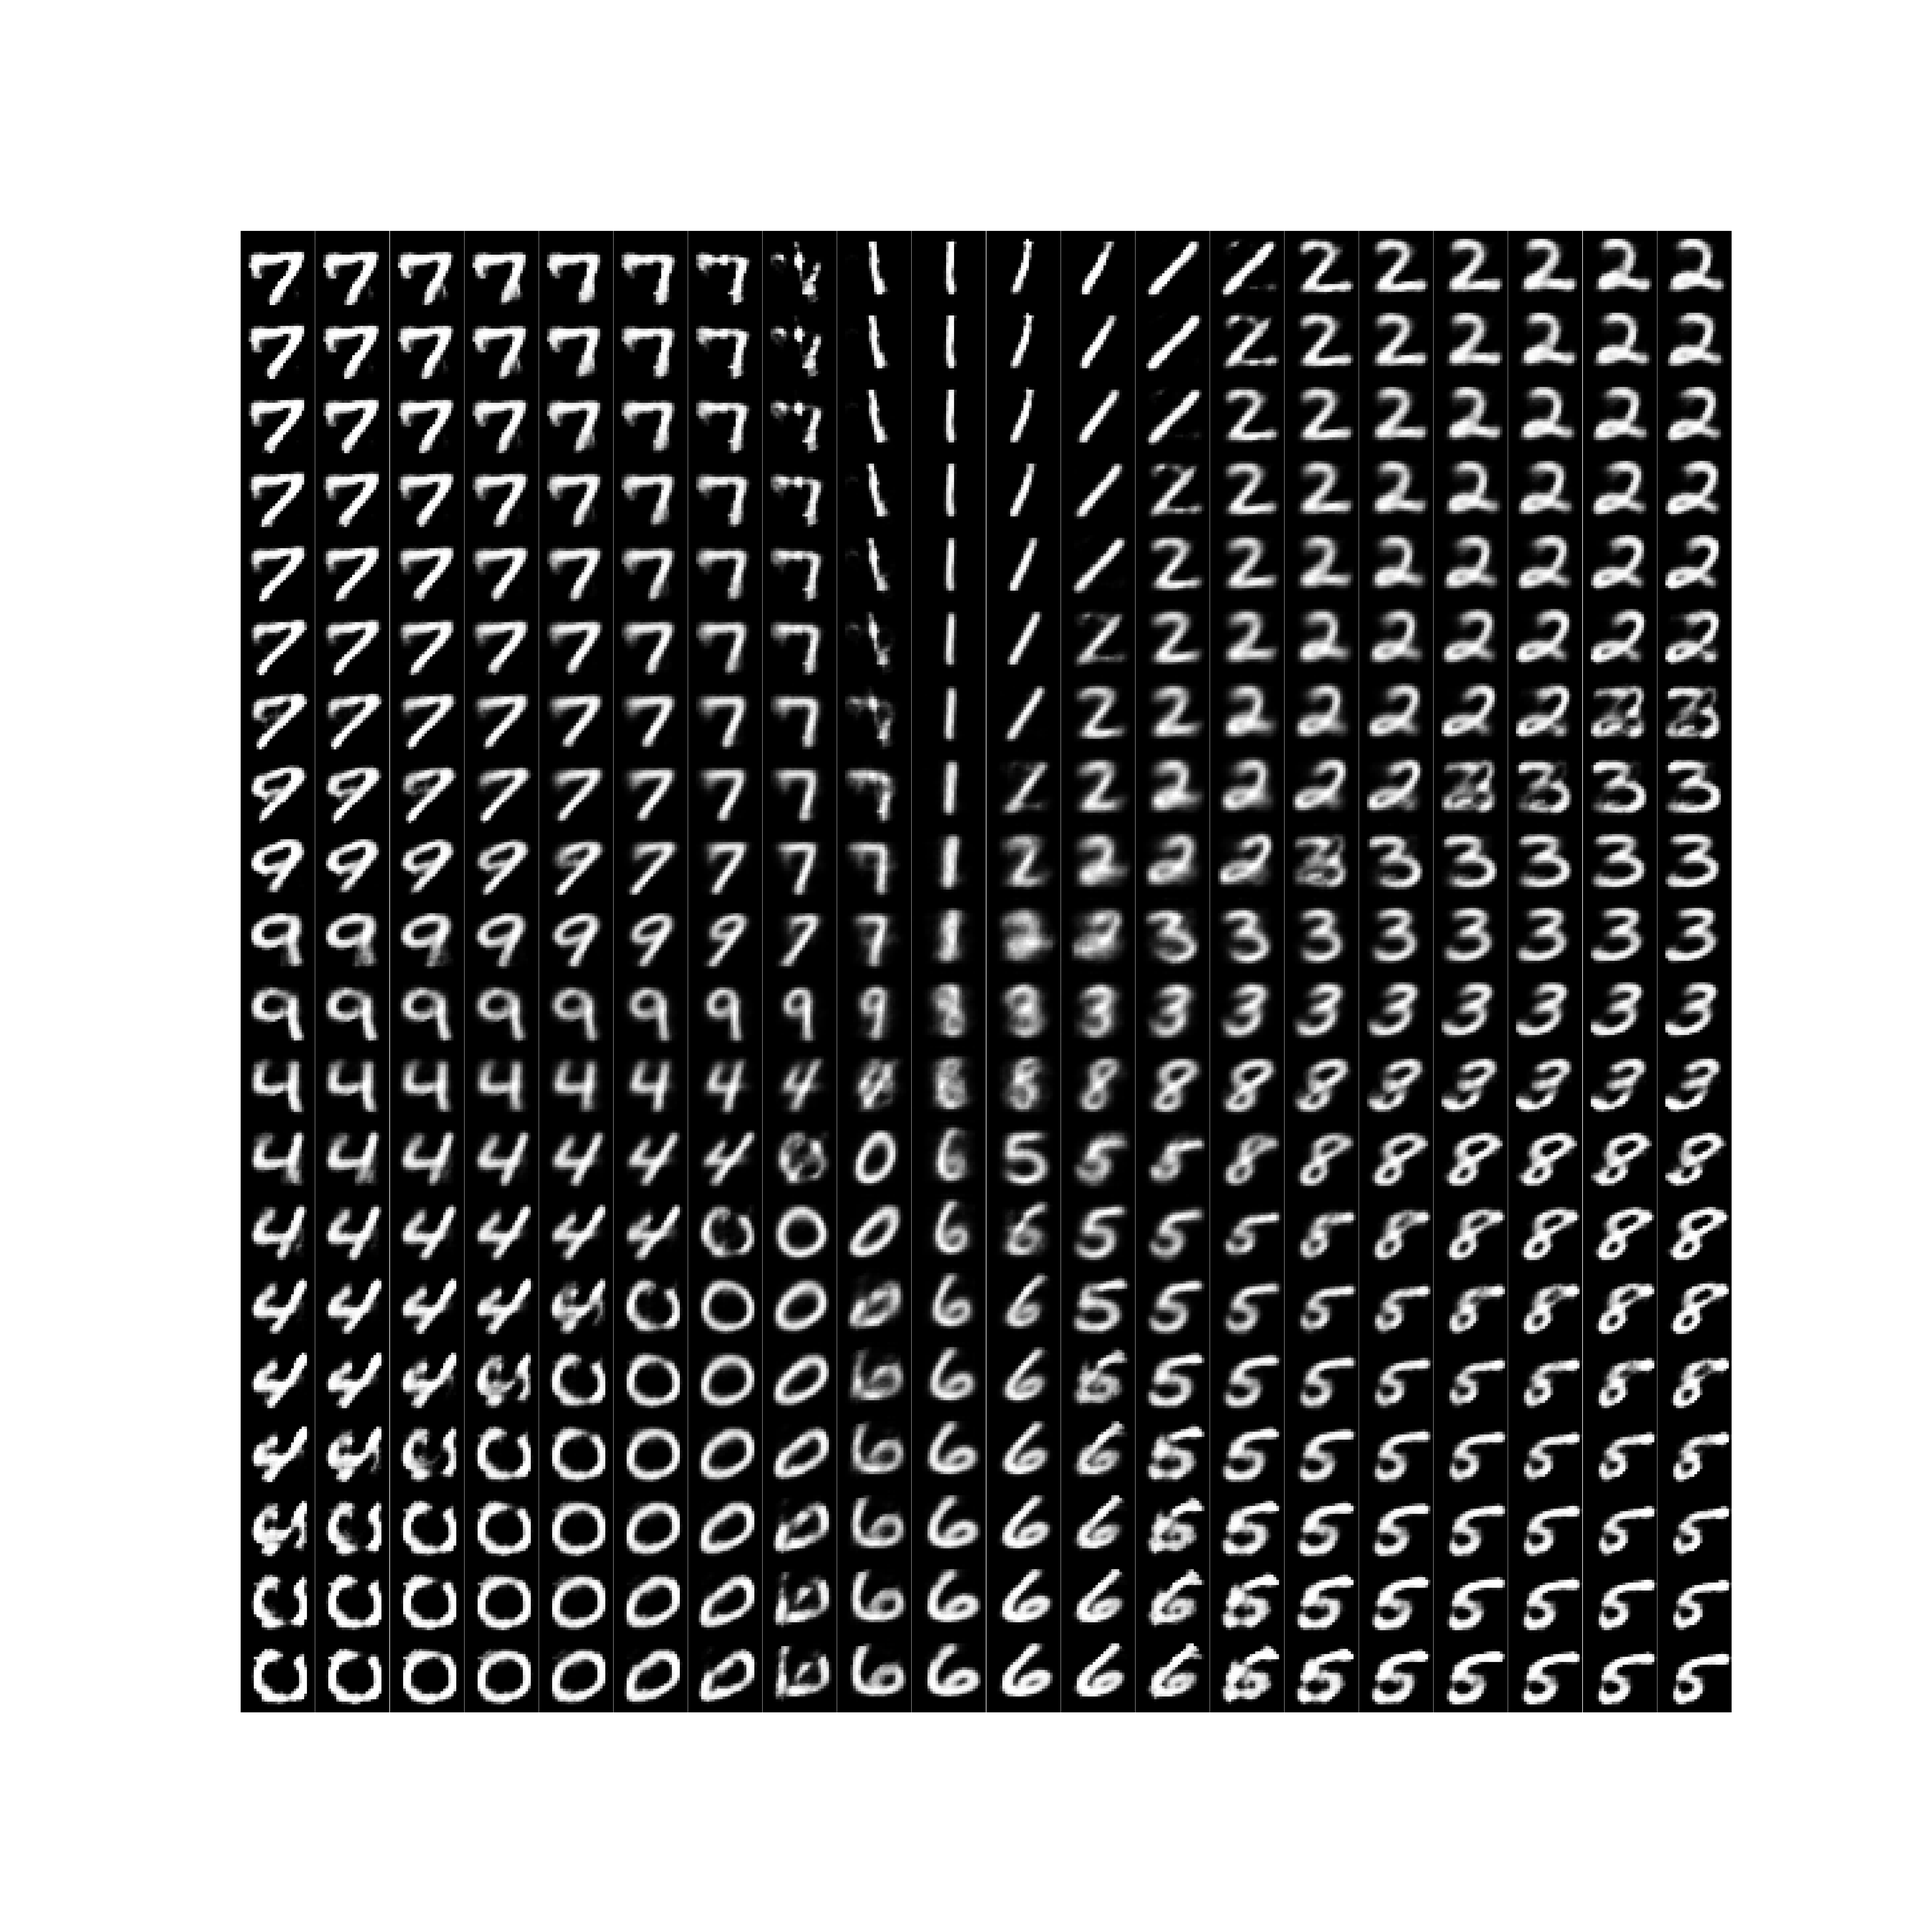
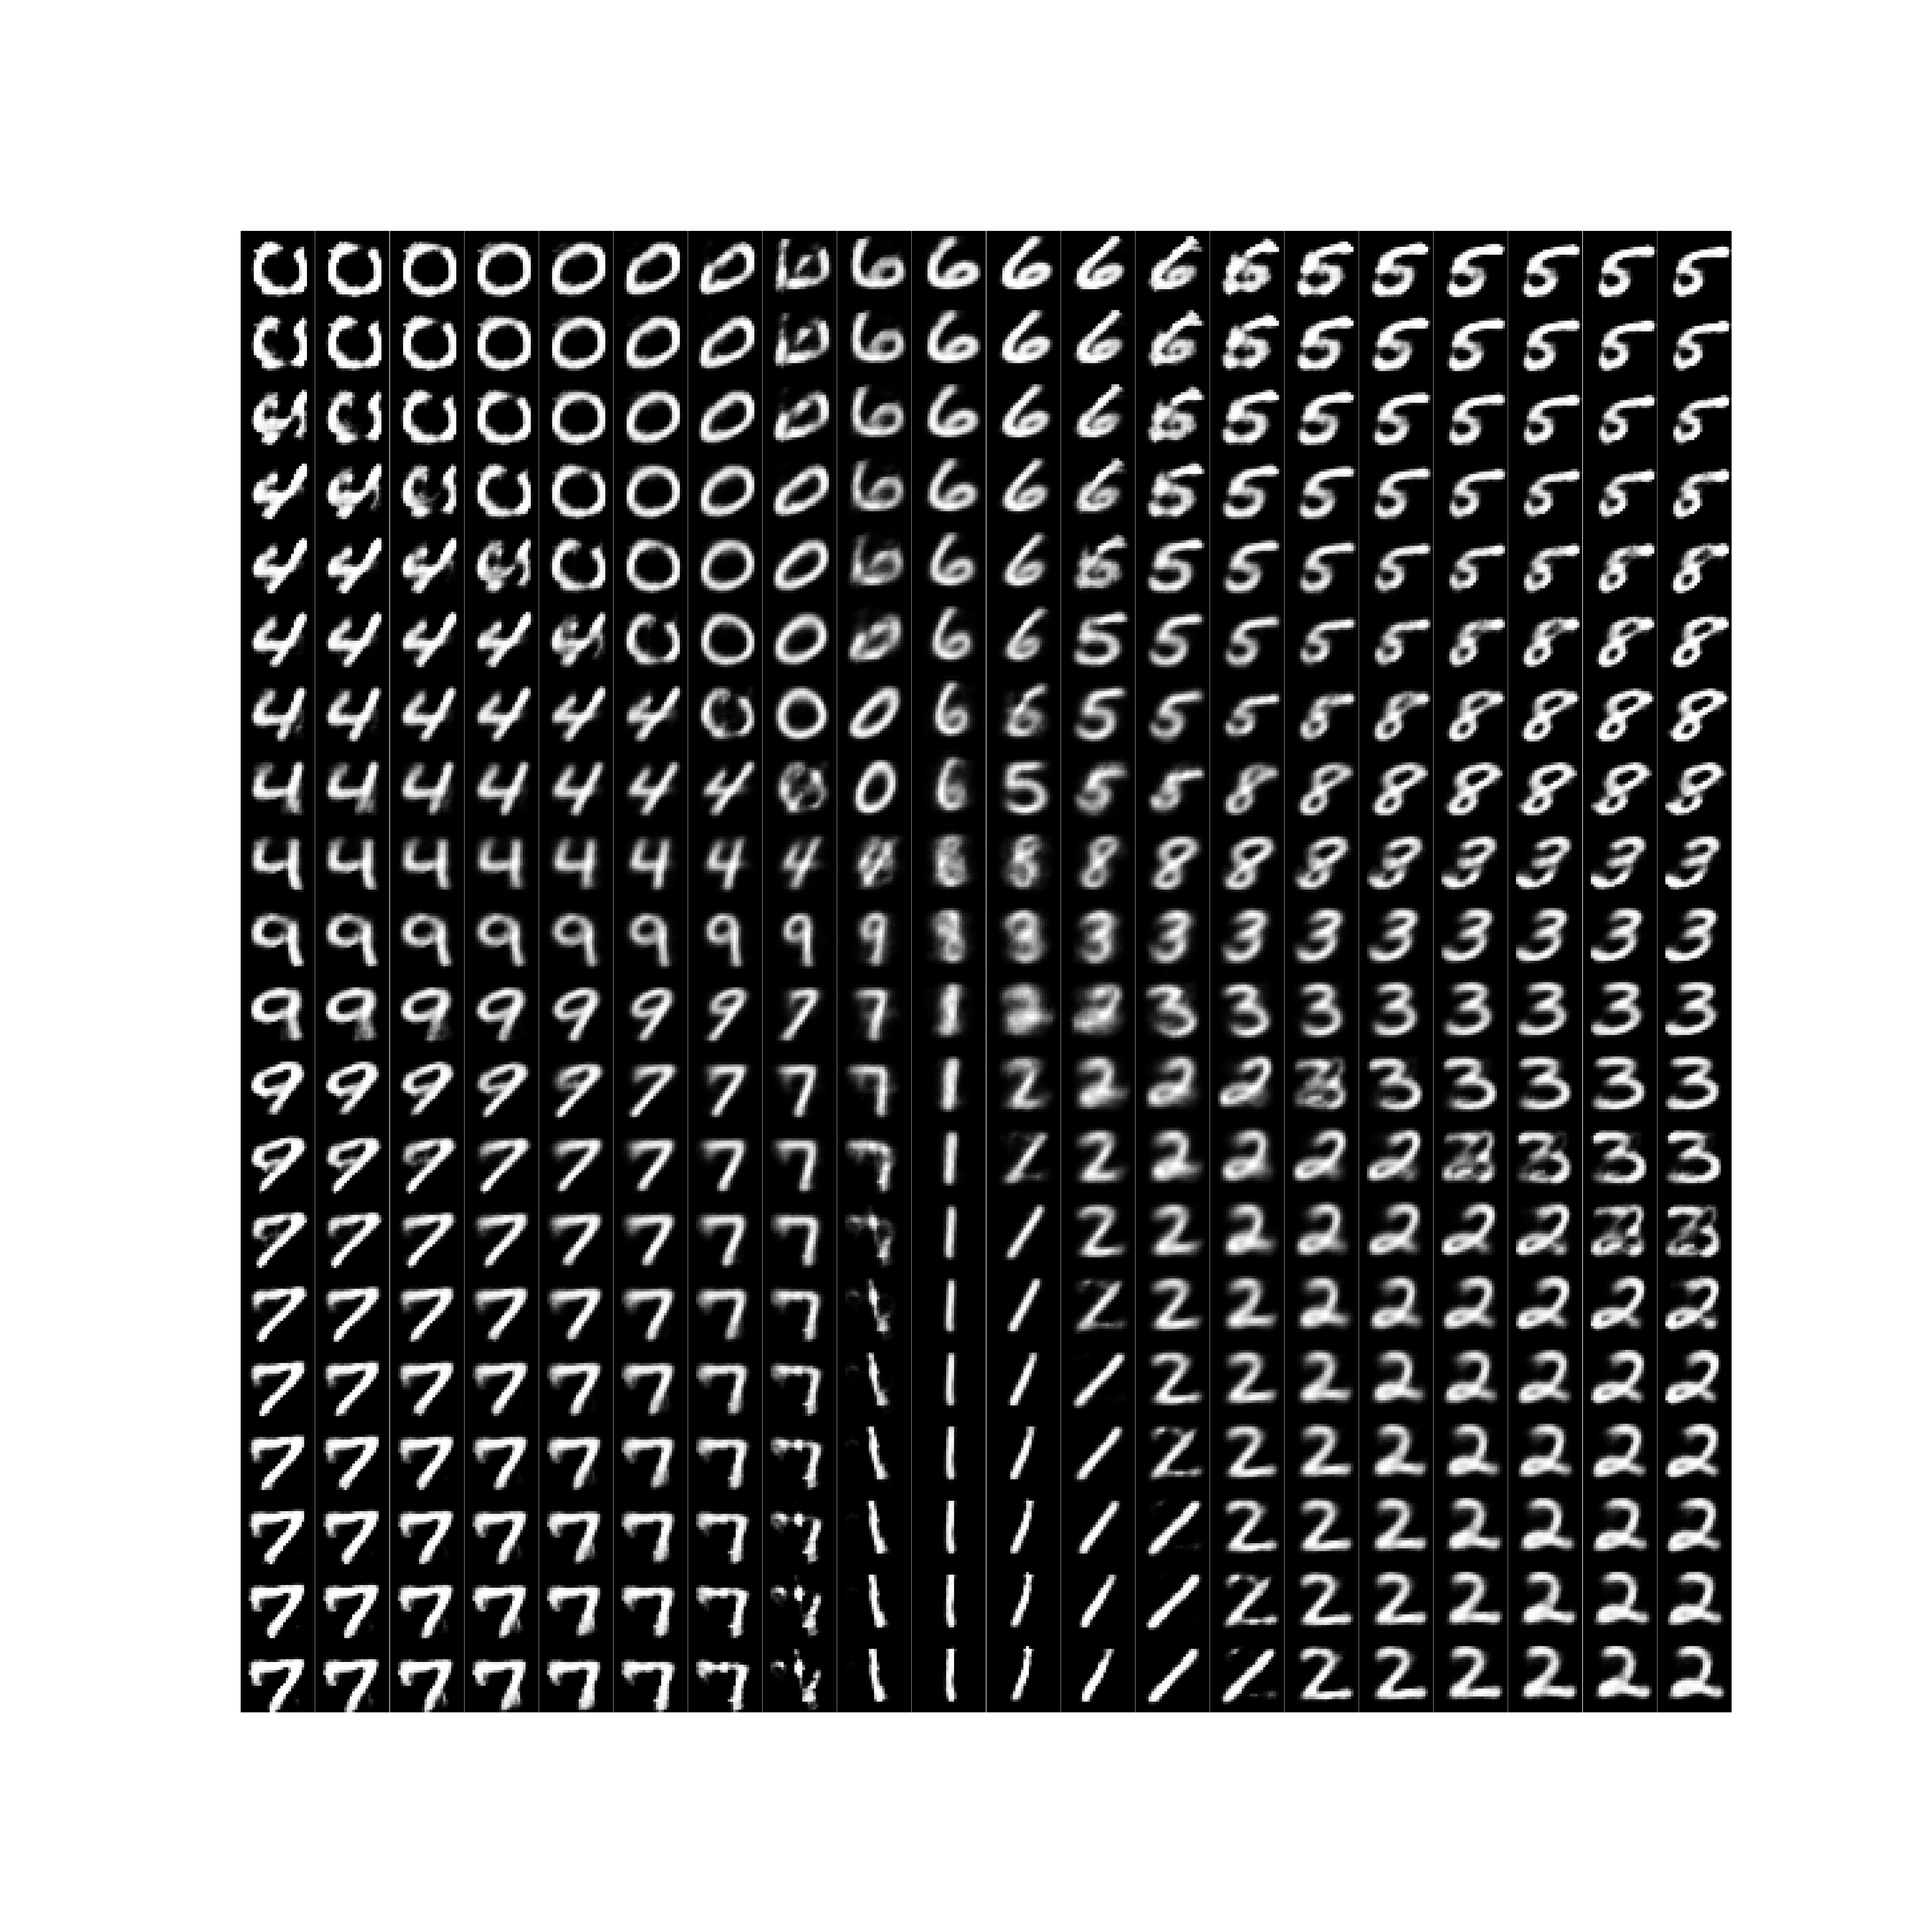
Third Commit

Changed region(s): [[0.1244, 0.1244, 0.9022, 0.9022]]

diff --git a/csae_model.py b/csae_model.py
@@ -204,7 +204,7 @@ def decode_grid_of_latent_representations(csae, embeddings:np.array, number_of_p
     x = np.linspace(min_x, max_x, number_of_points)
     y = np.linspace(min_y, max_y, number_of_points)
 
-    X,Y = np.meshgrid(x, y)
+    X,Y = np.meshgrid(x, y[::-1])
 
     # Decode the grid of points and construct a figure of the resulting images
     fig, axis = plt.subplots(nrows=number_of_points,
